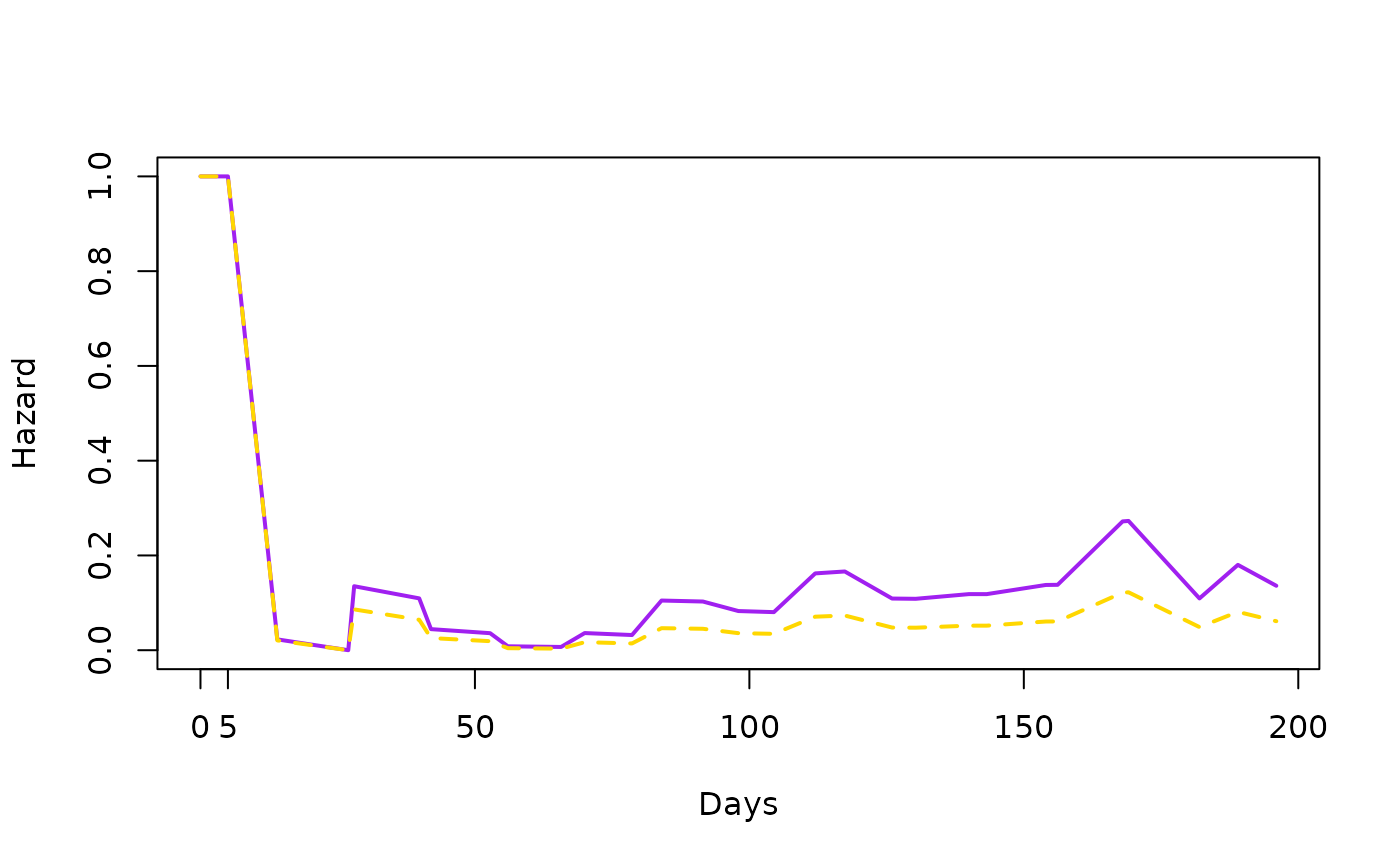
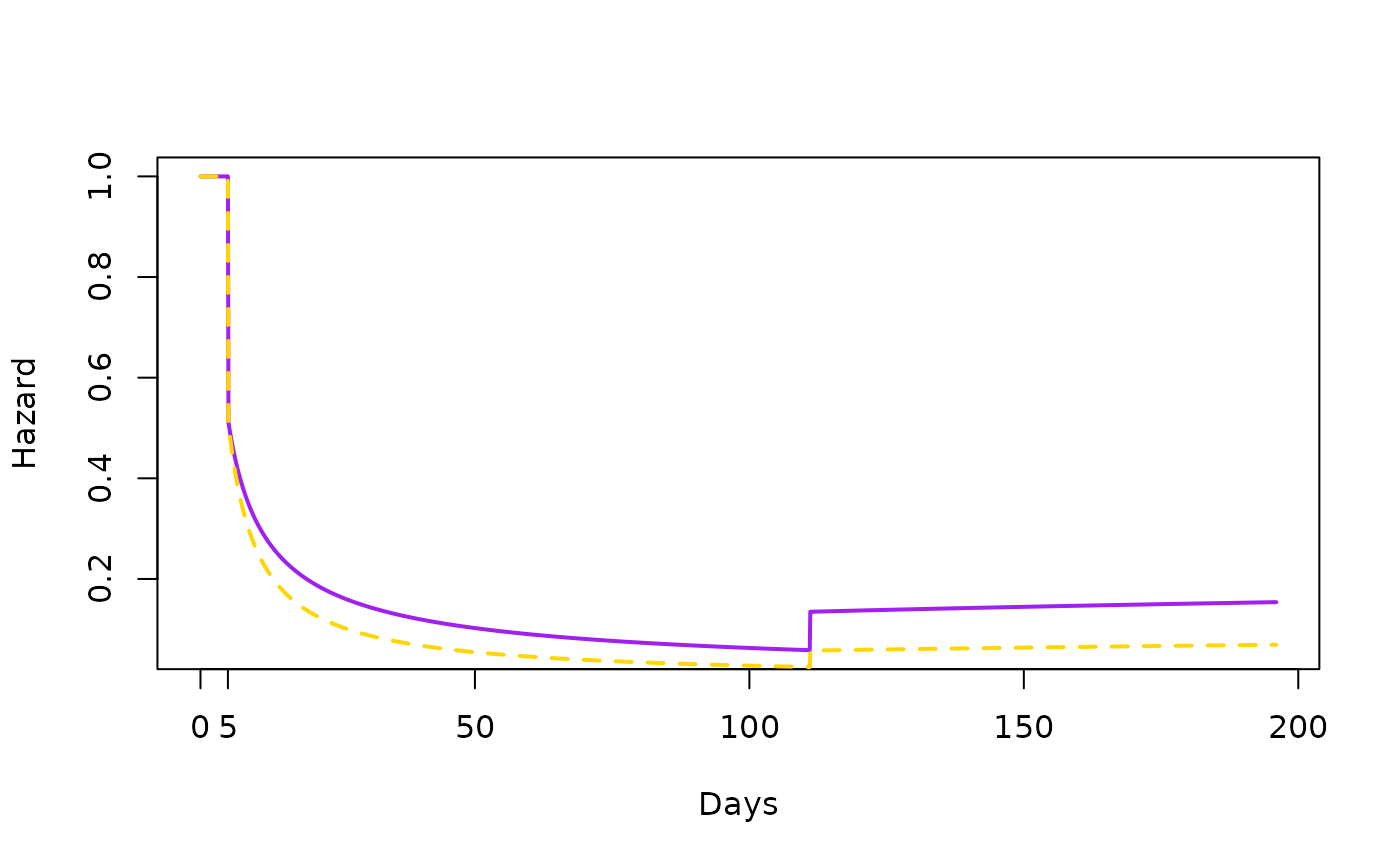
Deploying to gh-pages from @ swihart/mpw@b3b153014f00e6c4d6ead74212d334cae5456c49 🚀

diff --git a/articles/alpha.html b/articles/alpha.html
@@ -94,16 +94,93 @@ this example.</p>
 <div class="section level2">
 <h2 id="two-knots">Two knots<a class="anchor" aria-label="anchor" href="#two-knots"></a>
 </h2>
+<div class="sourceCode" id="cb3"><pre class="downlit sourceCode r">
+<code class="sourceCode R"><span><span class="va">tvec.in</span> <span class="op">&lt;-</span> <span class="fu"><a href="https://rdrr.io/r/base/c.html" class="external-link">c</a></span><span class="op">(</span><span class="fl">5</span>, <span class="fl">90</span><span class="op">+</span><span class="fl">21</span><span class="op">)</span></span>
+<span><span class="va">tvec.in</span></span>
+<span><span class="co">#&gt; [1]   5 111</span></span></code></pre></div>
 <div class="section level3">
 <h3 id="two-step-fitting-procedure">Two step fitting procedure<a class="anchor" aria-label="anchor" href="#two-step-fitting-procedure"></a>
 </h3>
 <div class="section level4">
 <h4 id="fit-for-placebo-group">1. Fit for placebo group<a class="anchor" aria-label="anchor" href="#fit-for-placebo-group"></a>
 </h4>
+<div class="sourceCode" id="cb4"><pre class="downlit sourceCode r">
+<code class="sourceCode R"><span><span class="va">fit_F_alpha</span> <span class="op">&lt;-</span> <span class="kw">function</span><span class="op">(</span><span class="va">x</span><span class="op">)</span><span class="op">{</span><span class="fu"><a href="https://rdrr.io/r/base/mean.html" class="external-link">mean</a></span><span class="op">(</span><span class="op">(</span><span class="fu"><a href="../reference/popavg_dist.html">popavg_dist</a></span><span class="op">(</span><span class="va">time</span>, </span>
+<span>                                            knots<span class="op">=</span> <span class="va">tvec.in</span>, </span>
+<span>                                            logk0<span class="op">=</span><span class="va">x</span><span class="op">[</span><span class="fl">1</span><span class="op">]</span>, </span>
+<span>                                            g0<span class="op">=</span><span class="va">x</span><span class="op">[</span><span class="fl">2</span><span class="op">]</span>, </span>
+<span>                                            delta_vec<span class="op">=</span><span class="va">x</span><span class="op">[</span><span class="op">-</span><span class="fu"><a href="https://rdrr.io/r/base/c.html" class="external-link">c</a></span><span class="op">(</span><span class="fl">1</span>,<span class="fl">2</span><span class="op">)</span><span class="op">]</span>,</span>
+<span>                                            h_parm <span class="op">=</span> <span class="va">H_PARM</span>,</span>
+<span>                                            frailty<span class="op">=</span><span class="va">FRAILTY</span><span class="op">)</span>  <span class="op">-</span> <span class="va">F0</span><span class="op">)</span><span class="op">^</span><span class="fl">2</span><span class="op">)</span> <span class="op">}</span></span>
+<span></span>
+<span><span class="va">init.vals</span> <span class="op">&lt;-</span> <span class="fu"><a href="https://rdrr.io/r/base/c.html" class="external-link">c</a></span><span class="op">(</span><span class="fu"><a href="https://rdrr.io/r/base/Log.html" class="external-link">log</a></span><span class="op">(</span><span class="fl">2.4</span><span class="op">)</span>, <span class="op">-</span><span class="fl">10</span>, <span class="fu"><a href="https://rdrr.io/r/base/rep.html" class="external-link">rep</a></span><span class="op">(</span> <span class="fl">0</span>,<span class="fu"><a href="https://rdrr.io/r/base/length.html" class="external-link">length</a></span><span class="op">(</span><span class="va">tvec.in</span><span class="op">)</span><span class="op">)</span><span class="op">)</span></span>
+<span><span class="va">plac_fit_F_alpha</span> <span class="op">&lt;-</span> </span>
+<span>  <span class="fu"><a href="https://rdrr.io/r/stats/optim.html" class="external-link">optim</a></span><span class="op">(</span><span class="va">init.vals</span>, <span class="va">fit_F_alpha</span>,</span>
+<span>        method<span class="op">=</span><span class="st">"Nelder-Mead"</span>,</span>
+<span>        control<span class="op">=</span><span class="fu"><a href="https://rdrr.io/r/base/list.html" class="external-link">list</a></span><span class="op">(</span>maxit<span class="op">=</span><span class="fl">1e8</span><span class="op">)</span><span class="op">)</span></span>
+<span><span class="fu"><a href="https://rdrr.io/r/base/print.html" class="external-link">print</a></span><span class="op">(</span><span class="va">plac_fit_F_alpha</span><span class="op">)</span></span>
+<span><span class="co">#&gt; $par</span></span>
+<span><span class="co">#&gt; [1]  -0.8590240 -11.5514302   1.6053115  -0.3700213</span></span>
+<span><span class="co">#&gt; </span></span>
+<span><span class="co">#&gt; $value</span></span>
+<span><span class="co">#&gt; [1] 1.574351e-06</span></span>
+<span><span class="co">#&gt; </span></span>
+<span><span class="co">#&gt; $counts</span></span>
+<span><span class="co">#&gt; function gradient </span></span>
+<span><span class="co">#&gt;      167       NA </span></span>
+<span><span class="co">#&gt; </span></span>
+<span><span class="co">#&gt; $convergence</span></span>
+<span><span class="co">#&gt; [1] 0</span></span>
+<span><span class="co">#&gt; </span></span>
+<span><span class="co">#&gt; $message</span></span>
+<span><span class="co">#&gt; NULL</span></span>
+<span></span>
+<span><span class="va">logk0p</span> <span class="op">=</span> <span class="va">plac_fit_F_alpha</span><span class="op">$</span><span class="va">par</span><span class="op">[</span><span class="fl">1</span><span class="op">]</span></span>
+<span><span class="va">g0p</span> <span class="op">=</span> <span class="va">plac_fit_F_alpha</span><span class="op">$</span><span class="va">par</span><span class="op">[</span><span class="fl">2</span><span class="op">]</span></span>
+<span><span class="va">delta_vec_p</span> <span class="op">=</span><span class="va">plac_fit_F_alpha</span><span class="op">$</span><span class="va">par</span><span class="op">[</span><span class="op">-</span><span class="fl">1</span><span class="op">*</span><span class="fu"><a href="https://rdrr.io/r/base/c.html" class="external-link">c</a></span><span class="op">(</span><span class="fl">1</span>,<span class="fl">2</span><span class="op">)</span><span class="op">]</span></span></code></pre></div>
 </div>
 <div class="section level4">
 <h4 id="fit-for-vaccine-group">2. Fit for vaccine group<a class="anchor" aria-label="anchor" href="#fit-for-vaccine-group"></a>
 </h4>
+<p>Now take <code>logk0p</code> and <code>g0p</code>, the parameters
+that control the first (leftmost) piece for the placebo group and use
+them for <code>logk0v</code> and <code>g0v</code> when estimating the
+pieces for the vaccine group. This forces the first pieces to be the
+same for both groups (i.e. <em>ramp-up time</em>).</p>
+<div class="sourceCode" id="cb5"><pre class="downlit sourceCode r">
+<code class="sourceCode R"><span><span class="va">fit_F_alpha</span> <span class="op">&lt;-</span> <span class="kw">function</span><span class="op">(</span><span class="va">x</span><span class="op">)</span><span class="op">{</span><span class="fu"><a href="https://rdrr.io/r/base/mean.html" class="external-link">mean</a></span><span class="op">(</span><span class="op">(</span><span class="fu"><a href="../reference/popavg_dist.html">popavg_dist</a></span><span class="op">(</span><span class="va">time</span>, </span>
+<span>                                            knots<span class="op">=</span> <span class="va">tvec.in</span>, </span>
+<span>                                            logk0<span class="op">=</span><span class="va">logk0p</span>, </span>
+<span>                                            g0<span class="op">=</span><span class="va">g0p</span>, </span>
+<span>                                            delta_vec<span class="op">=</span><span class="va">x</span>,</span>
+<span>                                            h_parm <span class="op">=</span> <span class="va">H_PARM</span>,</span>
+<span>                                            frailty<span class="op">=</span><span class="va">FRAILTY</span><span class="op">)</span>  <span class="op">-</span> <span class="va">F1</span><span class="op">)</span><span class="op">^</span><span class="fl">2</span><span class="op">)</span> <span class="op">}</span></span>
+<span></span>
+<span><span class="va">init.vals</span> <span class="op">&lt;-</span> <span class="fu"><a href="https://rdrr.io/r/base/rep.html" class="external-link">rep</a></span><span class="op">(</span> <span class="fl">0</span>,<span class="fu"><a href="https://rdrr.io/r/base/length.html" class="external-link">length</a></span><span class="op">(</span><span class="va">tvec.in</span><span class="op">)</span><span class="op">)</span></span>
+<span><span class="va">vacc_fit_F_alpha</span> <span class="op">&lt;-</span> </span>
+<span>  <span class="fu"><a href="https://rdrr.io/r/stats/optim.html" class="external-link">optim</a></span><span class="op">(</span><span class="va">init.vals</span>, <span class="va">fit_F_alpha</span>,</span>
+<span>        method<span class="op">=</span><span class="st">"Nelder-Mead"</span>,</span>
+<span>        control<span class="op">=</span><span class="fu"><a href="https://rdrr.io/r/base/list.html" class="external-link">list</a></span><span class="op">(</span>maxit<span class="op">=</span><span class="fl">1e8</span><span class="op">)</span><span class="op">)</span></span>
+<span><span class="fu"><a href="https://rdrr.io/r/base/print.html" class="external-link">print</a></span><span class="op">(</span><span class="va">vacc_fit_F_alpha</span><span class="op">)</span></span>
+<span><span class="co">#&gt; $par</span></span>
+<span><span class="co">#&gt; [1] 0.6274834 0.9321016</span></span>
+<span><span class="co">#&gt; </span></span>
+<span><span class="co">#&gt; $value</span></span>
+<span><span class="co">#&gt; [1] 1.41648e-07</span></span>
+<span><span class="co">#&gt; </span></span>
+<span><span class="co">#&gt; $counts</span></span>
+<span><span class="co">#&gt; function gradient </span></span>
+<span><span class="co">#&gt;       75       NA </span></span>
+<span><span class="co">#&gt; </span></span>
+<span><span class="co">#&gt; $convergence</span></span>
+<span><span class="co">#&gt; [1] 0</span></span>
+<span><span class="co">#&gt; </span></span>
+<span><span class="co">#&gt; $message</span></span>
+<span><span class="co">#&gt; NULL</span></span>
+<span></span>
+<span><span class="va">logk0v</span> <span class="op">=</span> <span class="va">logk0p</span></span>
+<span><span class="va">g0v</span> <span class="op">=</span> <span class="va">g0p</span></span>
+<span><span class="va">delta_vec_v</span> <span class="op">=</span><span class="va">vacc_fit_F_alpha</span><span class="op">$</span><span class="va">par</span></span></code></pre></div>
 </div>
 </div>
 <div class="section level3">
@@ -112,6 +189,40 @@ this example.</p>
 <ul>
 <li>Quick check of fit</li>
 </ul>
+<p>We use the knots and the original time in <code>time.dist</code> to
+do a quick check of the fit. We put vertical dashed lines in the plot to
+denote knot placement.</p>
+<div class="sourceCode" id="cb6"><pre class="downlit sourceCode r">
+<code class="sourceCode R"><span><span class="va">time.dist</span> <span class="op">&lt;-</span> <span class="fu"><a href="https://rdrr.io/r/base/seq.html" class="external-link">seq</a></span><span class="op">(</span><span class="fu"><a href="https://rdrr.io/r/base/Extremes.html" class="external-link">min</a></span><span class="op">(</span><span class="fu"><a href="https://rdrr.io/r/base/c.html" class="external-link">c</a></span><span class="op">(</span><span class="va">time</span>, <span class="va">tvec.in</span><span class="op">)</span><span class="op">)</span>, <span class="fu"><a href="https://rdrr.io/r/base/Extremes.html" class="external-link">max</a></span><span class="op">(</span><span class="fu"><a href="https://rdrr.io/r/base/c.html" class="external-link">c</a></span><span class="op">(</span><span class="va">time</span>, <span class="va">tvec.in</span><span class="op">)</span><span class="op">)</span>, <span class="fl">0.1</span><span class="op">)</span></span>
+<span><span class="va">plac.dist</span> <span class="op">&lt;-</span> <span class="fu"><a href="../reference/popavg_dist.html">popavg_dist</a></span><span class="op">(</span>      x <span class="op">=</span> <span class="va">time.dist</span>, </span>
+<span>                           knots <span class="op">=</span> <span class="va">tvec.in</span>,</span>
+<span>                           logk0 <span class="op">=</span> <span class="va">logk0p</span>,</span>
+<span>                              g0 <span class="op">=</span> <span class="va">g0p</span>,</span>
+<span>                       delta_vec <span class="op">=</span> <span class="va">delta_vec_p</span>,</span>
+<span>                          h_parm <span class="op">=</span> <span class="va">H_PARM</span>,</span>
+<span>                         frailty <span class="op">=</span> <span class="va">FRAILTY</span><span class="op">)</span></span>
+<span></span>
+<span><span class="va">vacc.dist</span> <span class="op">&lt;-</span> <span class="fu"><a href="../reference/popavg_dist.html">popavg_dist</a></span><span class="op">(</span>      x <span class="op">=</span> <span class="va">time.dist</span>, </span>
+<span>                           knots <span class="op">=</span> <span class="va">tvec.in</span>,</span>
+<span>                           logk0 <span class="op">=</span> <span class="va">logk0v</span>,</span>
+<span>                              g0 <span class="op">=</span> <span class="va">g0v</span>,</span>
+<span>                       delta_vec <span class="op">=</span> <span class="va">delta_vec_v</span>,</span>
+<span>                          h_parm <span class="op">=</span> <span class="va">H_PARM</span>,</span>
+<span>                         frailty <span class="op">=</span> <span class="va">FRAILTY</span><span class="op">)</span></span>
+<span>  </span>
+<span><span class="fu"><a href="https://rdrr.io/r/graphics/plot.default.html" class="external-link">plot</a></span>  <span class="op">(</span><span class="va">time.dist</span>, <span class="va">plac.dist</span>, type<span class="op">=</span><span class="st">"l"</span>, col<span class="op">=</span><span class="st">"black"</span>, xlab<span class="op">=</span><span class="st">"Days"</span>, ylab<span class="op">=</span><span class="st">"CDF"</span><span class="op">)</span></span>
+<span><span class="fu"><a href="https://rdrr.io/r/graphics/points.html" class="external-link">points</a></span><span class="op">(</span><span class="va">time</span>     , <span class="va">F0</span>       , col<span class="op">=</span><span class="st">"black"</span>, pch<span class="op">=</span><span class="fl">15</span><span class="op">)</span></span>
+<span><span class="fu"><a href="https://rdrr.io/r/graphics/lines.html" class="external-link">lines</a></span> <span class="op">(</span><span class="va">time.dist</span>, <span class="va">vacc.dist</span>, col<span class="op">=</span><span class="st">"blue"</span><span class="op">)</span></span>
+<span><span class="fu"><a href="https://rdrr.io/r/graphics/points.html" class="external-link">points</a></span><span class="op">(</span><span class="va">time</span>     , <span class="va">F1</span>, col<span class="op">=</span><span class="st">"blue"</span>, pch<span class="op">=</span><span class="fl">16</span><span class="op">)</span></span>
+<span><span class="fu"><a href="https://rdrr.io/r/graphics/abline.html" class="external-link">abline</a></span><span class="op">(</span>v<span class="op">=</span><span class="va">tvec.in</span>, lty<span class="op">=</span><span class="fl">2</span>, col<span class="op">=</span><span class="st">"grey"</span><span class="op">)</span></span>
+<span><span class="fu"><a href="https://rdrr.io/r/graphics/legend.html" class="external-link">legend</a></span><span class="op">(</span><span class="st">"topleft"</span>, <span class="fu"><a href="https://rdrr.io/r/base/c.html" class="external-link">c</a></span><span class="op">(</span><span class="st">"Placebo"</span>, <span class="st">"Vaccine"</span><span class="op">)</span>,</span>
+<span>       col<span class="op">=</span><span class="fu"><a href="https://rdrr.io/r/base/c.html" class="external-link">c</a></span><span class="op">(</span><span class="st">"black"</span>,<span class="st">"blue"</span><span class="op">)</span>,</span>
+<span>       lty<span class="op">=</span><span class="fl">1</span>,</span>
+<span>       pch<span class="op">=</span><span class="fu"><a href="https://rdrr.io/r/base/c.html" class="external-link">c</a></span><span class="op">(</span><span class="fl">15</span>,<span class="fl">16</span><span class="op">)</span></span>
+<span><span class="op">)</span></span>
+<span><span class="fu"><a href="https://rdrr.io/r/graphics/axis.html" class="external-link">axis</a></span><span class="op">(</span><span class="fl">1</span>, at<span class="op">=</span><span class="fu"><a href="https://rdrr.io/r/base/c.html" class="external-link">c</a></span><span class="op">(</span><span class="va">tvec.in</span><span class="op">[</span><span class="fl">1</span><span class="op">]</span><span class="op">)</span><span class="op">)</span></span></code></pre></div>
+<p><img src="alpha_files/figure-html/unnamed-chunk-4-1.png" width="700"></p>
+<p>Note from Days 0 to 5 the curves are the same.</p>
 </div>
 <div class="section level3">
 <h3 id="plot-population-avg-hr">Plot population avg HR<a class="anchor" aria-label="anchor" href="#plot-population-avg-hr"></a>
@@ -120,6 +231,33 @@ this example.</p>
 <li>uses parameters from two step fitting procedure</li>
 <li>HR(0) = 1</li>
 </ul>
+<p>We use the parameters of the previous fits to estimate the population
+average hazard, which we can fit with <code><a href="../reference/popavg_haz.html">mpw::popavg_haz()</a></code>. We
+adjust the time input so that the first element is just above 0.</p>
+<div class="sourceCode" id="cb7"><pre class="downlit sourceCode r">
+<code class="sourceCode R"><span><span class="va">time.haz</span> <span class="op">&lt;-</span> <span class="fu"><a href="https://rdrr.io/r/base/c.html" class="external-link">c</a></span><span class="op">(</span><span class="fl">1e-4</span>, <span class="va">time.dist</span><span class="op">[</span><span class="op">-</span><span class="fl">1</span><span class="op">]</span><span class="op">)</span></span>
+<span><span class="va">plac.haz</span> <span class="op">&lt;-</span> <span class="fu"><a href="../reference/popavg_haz.html">popavg_haz</a></span><span class="op">(</span>      x <span class="op">=</span> <span class="va">time.haz</span>, </span>
+<span>                           knots <span class="op">=</span> <span class="va">tvec.in</span>,</span>
+<span>                           logk0 <span class="op">=</span> <span class="va">logk0p</span>,</span>
+<span>                              g0 <span class="op">=</span> <span class="va">g0p</span>,</span>
+<span>                       delta_vec <span class="op">=</span> <span class="va">delta_vec_p</span>,</span>
+<span>                          h_parm <span class="op">=</span> <span class="va">H_PARM</span>,</span>
+<span>                         frailty <span class="op">=</span> <span class="va">FRAILTY</span><span class="op">)</span></span>
+<span></span>
+<span><span class="va">vacc.haz</span> <span class="op">&lt;-</span> <span class="fu"><a href="../reference/popavg_haz.html">popavg_haz</a></span><span class="op">(</span>      x <span class="op">=</span> <span class="va">time.haz</span>, </span>
+<span>                           knots <span class="op">=</span> <span class="va">tvec.in</span>,</span>
+<span>                           logk0 <span class="op">=</span> <span class="va">logk0v</span>,</span>
+<span>                              g0 <span class="op">=</span> <span class="va">g0v</span>,</span>
+<span>                       delta_vec <span class="op">=</span> <span class="va">delta_vec_v</span>,</span>
+<span>                          h_parm <span class="op">=</span> <span class="va">H_PARM</span>,</span>
+<span>                         frailty <span class="op">=</span> <span class="va">FRAILTY</span><span class="op">)</span></span>
+<span></span>
+<span><span class="fu"><a href="https://rdrr.io/r/graphics/plot.default.html" class="external-link">plot</a></span>  <span class="op">(</span><span class="va">time.haz</span>, <span class="va">vacc.haz</span><span class="op">/</span><span class="va">plac.haz</span>, type<span class="op">=</span><span class="st">"l"</span>, col<span class="op">=</span><span class="st">"purple"</span>, xlab<span class="op">=</span><span class="st">"Days"</span>, ylab<span class="op">=</span><span class="st">"Hazard"</span>, lwd<span class="op">=</span><span class="fl">2</span><span class="op">)</span></span>
+<span></span>
+<span><span class="fu"><a href="https://rdrr.io/r/graphics/abline.html" class="external-link">abline</a></span><span class="op">(</span>v<span class="op">=</span><span class="va">tvec.in</span>, lty<span class="op">=</span><span class="fl">2</span>, col<span class="op">=</span><span class="st">"grey"</span><span class="op">)</span></span>
+<span></span>
+<span><span class="fu"><a href="https://rdrr.io/r/graphics/axis.html" class="external-link">axis</a></span><span class="op">(</span><span class="fl">1</span>, at<span class="op">=</span><span class="fu"><a href="https://rdrr.io/r/base/c.html" class="external-link">c</a></span><span class="op">(</span><span class="va">tvec.in</span><span class="op">[</span><span class="fl">1</span><span class="op">]</span><span class="op">)</span><span class="op">)</span></span></code></pre></div>
+<p><img src="alpha_files/figure-html/unnamed-chunk-5-1.png" width="700"></p>
 </div>
 <div class="section level3">
 <h3 id="add-subject-specific-hrs">Add subject-specific HRs<a class="anchor" aria-label="anchor" href="#add-subject-specific-hrs"></a>
@@ -127,12 +265,42 @@ this example.</p>
 <ul>
 <li>should flatten</li>
 </ul>
+<p>The function <code><a href="../reference/subjspec_haz.html">mpw::subjspec_haz()</a></code> does not require the
+arguments <code>frailty</code> or <code>h_parm</code> because it takes
+the inputs for the b,k, and delta pieces and models the subject-specific
+(aka conditional) hazard. Doing this for the placebo group, then the
+vaccine group and dividing them gives the subject-specific hazard ratio
+(HR).</p>
+<div class="sourceCode" id="cb8"><pre class="downlit sourceCode r">
+<code class="sourceCode R"><span><span class="va">plac.haz.ss</span> <span class="op">&lt;-</span> <span class="fu"><a href="../reference/subjspec_haz.html">subjspec_haz</a></span><span class="op">(</span>      x <span class="op">=</span> <span class="va">time.haz</span>, </span>
+<span>                           knots <span class="op">=</span> <span class="va">tvec.in</span>,</span>
+<span>                           logk0 <span class="op">=</span> <span class="va">logk0p</span>,</span>
+<span>                              g0 <span class="op">=</span> <span class="va">g0p</span>,</span>
+<span>                       delta_vec <span class="op">=</span> <span class="va">delta_vec_p</span><span class="op">)</span></span>
+<span></span>
+<span><span class="va">vacc.haz.ss</span> <span class="op">&lt;-</span> <span class="fu"><a href="../reference/popavg_haz.html">popavg_haz</a></span><span class="op">(</span>      x <span class="op">=</span> <span class="va">time.haz</span>, </span>
+<span>                           knots <span class="op">=</span> <span class="va">tvec.in</span>,</span>
+<span>                           logk0 <span class="op">=</span> <span class="va">logk0v</span>,</span>
+<span>                              g0 <span class="op">=</span> <span class="va">g0v</span>,</span>
+<span>                       delta_vec <span class="op">=</span> <span class="va">delta_vec_v</span><span class="op">)</span></span>
+<span></span>
+<span><span class="fu"><a href="https://rdrr.io/r/graphics/plot.default.html" class="external-link">plot</a></span>  <span class="op">(</span><span class="va">time.haz</span>, <span class="va">vacc.haz</span><span class="op">/</span><span class="va">plac.haz</span>, type<span class="op">=</span><span class="st">"l"</span>, col<span class="op">=</span><span class="st">"purple"</span>, xlab<span class="op">=</span><span class="st">"Days"</span>, ylab<span class="op">=</span><span class="st">"Hazard"</span>, lwd<span class="op">=</span><span class="fl">2</span><span class="op">)</span></span>
+<span></span>
+<span><span class="fu"><a href="https://rdrr.io/r/graphics/axis.html" class="external-link">axis</a></span><span class="op">(</span><span class="fl">1</span>, at<span class="op">=</span><span class="fu"><a href="https://rdrr.io/r/base/c.html" class="external-link">c</a></span><span class="op">(</span><span class="va">tvec.in</span><span class="op">[</span><span class="fl">1</span><span class="op">]</span><span class="op">)</span><span class="op">)</span></span>
+<span></span>
+<span><span class="fu"><a href="https://rdrr.io/r/graphics/lines.html" class="external-link">lines</a></span>  <span class="op">(</span><span class="va">time.haz</span>, <span class="va">vacc.haz.ss</span><span class="op">/</span><span class="va">plac.haz.ss</span>, type<span class="op">=</span><span class="st">"l"</span>, col<span class="op">=</span><span class="st">"gold"</span>, xlab<span class="op">=</span><span class="st">"Days"</span>, ylab<span class="op">=</span><span class="st">"Hazard"</span>, lty<span class="op">=</span><span class="fl">2</span>, lwd<span class="op">=</span><span class="fl">2</span><span class="op">)</span></span></code></pre></div>
+<p><img src="alpha_files/figure-html/unnamed-chunk-6-1.png" width="700"></p>
+<p>The plot above shows that for a positive-stable frailty with
+<math display="inline" xmlns="http://www.w3.org/1998/Math/MathML"><semantics><mi>α</mi><annotation encoding="application/x-tex">\alpha</annotation></semantics></math>
+= 0.72 the subject-specific HR is flatter and lower than the population
+average HR.</p>
 </div>
 </div>
 <div class="section level2">
 <h2 id="sixteen-knots">Sixteen knots<a class="anchor" aria-label="anchor" href="#sixteen-knots"></a>
 </h2>
-<div class="sourceCode" id="cb3"><pre class="downlit sourceCode r">
+<p>By increasing the knots, we get a “higher resolution” fit.</p>
+<div class="sourceCode" id="cb9"><pre class="downlit sourceCode r">
 <code class="sourceCode R"><span><span class="va">tvec.in</span> <span class="op">&lt;-</span> <span class="fu"><a href="https://rdrr.io/r/base/c.html" class="external-link">c</a></span><span class="op">(</span><span class="fl">5</span>, <span class="fu"><a href="https://rdrr.io/r/base/seq.html" class="external-link">seq</a></span><span class="op">(</span><span class="fl">14</span>,<span class="fu"><a href="https://rdrr.io/r/base/Extremes.html" class="external-link">max</a></span><span class="op">(</span><span class="va">time</span><span class="op">)</span><span class="op">-</span><span class="fl">14</span>,length.out<span class="op">=</span><span class="fl">14</span><span class="op">)</span>,<span class="fu"><a href="https://rdrr.io/r/base/Extremes.html" class="external-link">max</a></span><span class="op">(</span><span class="va">time</span><span class="op">)</span><span class="op">-</span><span class="fl">7</span><span class="op">)</span></span>
 <span><span class="va">tvec.in</span></span>
 <span><span class="co">#&gt;  [1]   5.00000  14.00000  26.92308  39.84615  52.76923  65.69231  78.61538</span></span>
@@ -144,7 +312,7 @@ this example.</p>
 <div class="section level4">
 <h4 id="fit-for-placebo-group-1">1. Fit for placebo group<a class="anchor" aria-label="anchor" href="#fit-for-placebo-group-1"></a>
 </h4>
-<div class="sourceCode" id="cb4"><pre class="downlit sourceCode r">
+<div class="sourceCode" id="cb10"><pre class="downlit sourceCode r">
 <code class="sourceCode R"><span><span class="va">fit_F_alpha</span> <span class="op">&lt;-</span> <span class="kw">function</span><span class="op">(</span><span class="va">x</span><span class="op">)</span><span class="op">{</span><span class="fu"><a href="https://rdrr.io/r/base/mean.html" class="external-link">mean</a></span><span class="op">(</span><span class="op">(</span><span class="fu"><a href="../reference/popavg_dist.html">popavg_dist</a></span><span class="op">(</span><span class="va">time</span>, </span>
 <span>                                            knots<span class="op">=</span> <span class="va">tvec.in</span>, </span>
 <span>                                            logk0<span class="op">=</span><span class="va">x</span><span class="op">[</span><span class="fl">1</span><span class="op">]</span>, </span>
@@ -190,7 +358,7 @@ that control the first (leftmost) piece for the placebo group and use
 them for <code>logk0v</code> and <code>g0v</code> when estimating the
 pieces for the vaccine group. This forces the first pieces to be the
 same for both groups (i.e. <em>ramp-up time</em>).</p>
-<div class="sourceCode" id="cb5"><pre class="downlit sourceCode r">
+<div class="sourceCode" id="cb11"><pre class="downlit sourceCode r">
 <code class="sourceCode R"><span><span class="va">fit_F_alpha</span> <span class="op">&lt;-</span> <span class="kw">function</span><span class="op">(</span><span class="va">x</span><span class="op">)</span><span class="op">{</span><span class="fu"><a href="https://rdrr.io/r/base/mean.html" class="external-link">mean</a></span><span class="op">(</span><span class="op">(</span><span class="fu"><a href="../reference/popavg_dist.html">popavg_dist</a></span><span class="op">(</span><span class="va">time</span>, </span>
 <span>                                            knots<span class="op">=</span> <span class="va">tvec.in</span>, </span>
 <span>                                            logk0<span class="op">=</span><span class="va">logk0p</span>, </span>
@@ -237,8 +405,8 @@ same for both groups (i.e. <em>ramp-up time</em>).</p>
 <p>We use the knots and the original time in <code>time.dist</code> to
 do a quick check of the fit. We put vertical dashed lines in the plot to
 denote knot placement.</p>
-<div class="sourceCode" id="cb6"><pre class="downlit sourceCode r">
-<code class="sourceCode R"><span><span class="va">time.dist</span> <span class="op">&lt;-</span> <span class="fu"><a href="https://rdrr.io/r/base/sort.html" class="external-link">sort</a></span><span class="op">(</span><span class="fu"><a href="https://rdrr.io/r/base/c.html" class="external-link">c</a></span><span class="op">(</span><span class="va">time</span>, <span class="va">tvec.in</span><span class="op">)</span><span class="op">)</span></span>
+<div class="sourceCode" id="cb12"><pre class="downlit sourceCode r">
+<code class="sourceCode R"><span><span class="va">time.dist</span> <span class="op">&lt;-</span> <span class="fu"><a href="https://rdrr.io/r/base/seq.html" class="external-link">seq</a></span><span class="op">(</span><span class="fu"><a href="https://rdrr.io/r/base/Extremes.html" class="external-link">min</a></span><span class="op">(</span><span class="fu"><a href="https://rdrr.io/r/base/c.html" class="external-link">c</a></span><span class="op">(</span><span class="va">time</span>, <span class="va">tvec.in</span><span class="op">)</span><span class="op">)</span>, <span class="fu"><a href="https://rdrr.io/r/base/Extremes.html" class="external-link">max</a></span><span class="op">(</span><span class="fu"><a href="https://rdrr.io/r/base/c.html" class="external-link">c</a></span><span class="op">(</span><span class="va">time</span>, <span class="va">tvec.in</span><span class="op">)</span><span class="op">)</span>, <span class="fl">0.1</span><span class="op">)</span></span>
 <span><span class="va">plac.dist</span> <span class="op">&lt;-</span> <span class="fu"><a href="../reference/popavg_dist.html">popavg_dist</a></span><span class="op">(</span>      x <span class="op">=</span> <span class="va">time.dist</span>, </span>
 <span>                           knots <span class="op">=</span> <span class="va">tvec.in</span>,</span>
 <span>                           logk0 <span class="op">=</span> <span class="va">logk0p</span>,</span>
@@ -266,7 +434,7 @@ denote knot placement.</p>
 <span>       pch<span class="op">=</span><span class="fu"><a href="https://rdrr.io/r/base/c.html" class="external-link">c</a></span><span class="op">(</span><span class="fl">15</span>,<span class="fl">16</span><span class="op">)</span></span>
 <span><span class="op">)</span></span>
 <span><span class="fu"><a href="https://rdrr.io/r/graphics/axis.html" class="external-link">axis</a></span><span class="op">(</span><span class="fl">1</span>, at<span class="op">=</span><span class="fu"><a href="https://rdrr.io/r/base/c.html" class="external-link">c</a></span><span class="op">(</span><span class="va">tvec.in</span><span class="op">[</span><span class="fl">1</span><span class="op">]</span><span class="op">)</span><span class="op">)</span></span></code></pre></div>
-<p><img src="alpha_files/figure-html/unnamed-chunk-4-1.png" width="700"></p>
+<p><img src="alpha_files/figure-html/unnamed-chunk-9-1.png" width="700"></p>
 <p>Note from Days 0 to 5 the curves are the same.</p>
 </div>
 <div class="section level3">
@@ -279,7 +447,7 @@ denote knot placement.</p>
 <p>We use the parameters of the previous fits to estimate the population
 average hazard, which we can fit with <code><a href="../reference/popavg_haz.html">mpw::popavg_haz()</a></code>. We
 adjust the time input so that the first element is just above 0.</p>
-<div class="sourceCode" id="cb7"><pre class="downlit sourceCode r">
+<div class="sourceCode" id="cb13"><pre class="downlit sourceCode r">
 <code class="sourceCode R"><span><span class="va">time.haz</span> <span class="op">&lt;-</span> <span class="fu"><a href="https://rdrr.io/r/base/c.html" class="external-link">c</a></span><span class="op">(</span><span class="fl">1e-4</span>, <span class="va">time.dist</span><span class="op">[</span><span class="op">-</span><span class="fl">1</span><span class="op">]</span><span class="op">)</span></span>
 <span><span class="va">plac.haz</span> <span class="op">&lt;-</span> <span class="fu"><a href="../reference/popavg_haz.html">popavg_haz</a></span><span class="op">(</span>      x <span class="op">=</span> <span class="va">time.haz</span>, </span>
 <span>                           knots <span class="op">=</span> <span class="va">tvec.in</span>,</span>
@@ -302,7 +470,7 @@ adjust the time input so that the first element is just above 0.</p>
 <span><span class="fu"><a href="https://rdrr.io/r/graphics/abline.html" class="external-link">abline</a></span><span class="op">(</span>v<span class="op">=</span><span class="va">tvec.in</span>, lty<span class="op">=</span><span class="fl">2</span>, col<span class="op">=</span><span class="st">"grey"</span><span class="op">)</span></span>
 <span></span>
 <span><span class="fu"><a href="https://rdrr.io/r/graphics/axis.html" class="external-link">axis</a></span><span class="op">(</span><span class="fl">1</span>, at<span class="op">=</span><span class="fu"><a href="https://rdrr.io/r/base/c.html" class="external-link">c</a></span><span class="op">(</span><span class="va">tvec.in</span><span class="op">[</span><span class="fl">1</span><span class="op">]</span><span class="op">)</span><span class="op">)</span></span></code></pre></div>
-<p><img src="alpha_files/figure-html/unnamed-chunk-5-1.png" width="700"></p>
+<p><img src="alpha_files/figure-html/unnamed-chunk-10-1.png" width="700"></p>
 </div>
 <div class="section level3">
 <h3 id="add-subject-specific-hrs-1">Add subject-specific HRs<a class="anchor" aria-label="anchor" href="#add-subject-specific-hrs-1"></a>
@@ -316,7 +484,7 @@ the inputs for the b,k, and delta pieces and models the subject-specific
 (aka conditional) hazard. Doing this for the placebo group, then the
 vaccine group and dividing them gives the subject-specific hazard ratio
 (HR).</p>
-<div class="sourceCode" id="cb8"><pre class="downlit sourceCode r">
+<div class="sourceCode" id="cb14"><pre class="downlit sourceCode r">
 <code class="sourceCode R"><span><span class="va">plac.haz.ss</span> <span class="op">&lt;-</span> <span class="fu"><a href="../reference/subjspec_haz.html">subjspec_haz</a></span><span class="op">(</span>      x <span class="op">=</span> <span class="va">time.haz</span>, </span>
 <span>                           knots <span class="op">=</span> <span class="va">tvec.in</span>,</span>
 <span>                           logk0 <span class="op">=</span> <span class="va">logk0p</span>,</span>
@@ -334,7 +502,7 @@ vaccine group and dividing them gives the subject-specific hazard ratio
 <span><span class="fu"><a href="https://rdrr.io/r/graphics/axis.html" class="external-link">axis</a></span><span class="op">(</span><span class="fl">1</span>, at<span class="op">=</span><span class="fu"><a href="https://rdrr.io/r/base/c.html" class="external-link">c</a></span><span class="op">(</span><span class="va">tvec.in</span><span class="op">[</span><span class="fl">1</span><span class="op">]</span><span class="op">)</span><span class="op">)</span></span>
 <span></span>
 <span><span class="fu"><a href="https://rdrr.io/r/graphics/lines.html" class="external-link">lines</a></span>  <span class="op">(</span><span class="va">time.haz</span>, <span class="va">vacc.haz.ss</span><span class="op">/</span><span class="va">plac.haz.ss</span>, type<span class="op">=</span><span class="st">"l"</span>, col<span class="op">=</span><span class="st">"gold"</span>, xlab<span class="op">=</span><span class="st">"Days"</span>, ylab<span class="op">=</span><span class="st">"Hazard"</span>, lty<span class="op">=</span><span class="fl">2</span>, lwd<span class="op">=</span><span class="fl">2</span><span class="op">)</span></span></code></pre></div>
-<p><img src="alpha_files/figure-html/unnamed-chunk-6-1.png" width="700"></p>
+<p><img src="alpha_files/figure-html/unnamed-chunk-11-1.png" width="700"></p>
 <p>The plot above shows that for a positive-stable frailty with
 <math display="inline" xmlns="http://www.w3.org/1998/Math/MathML"><semantics><mi>α</mi><annotation encoding="application/x-tex">\alpha</annotation></semantics></math>
 = 0.72 the subject-specific HR is flatter and lower than the population
